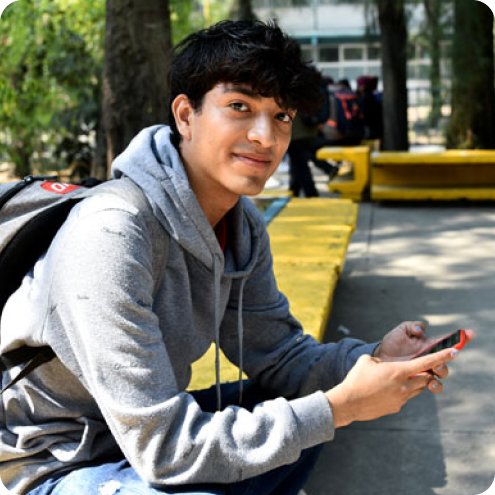
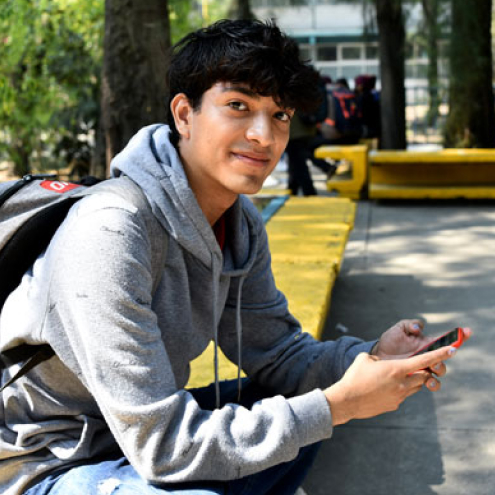
Ajuste a estilos de ingreso

diff --git a/css/style.css b/css/style.css
@@ -670,6 +670,12 @@ h3,
     background: #E2FAFA;
 }
 
+#input-usuario,
+#input-password {
+    font-size: 1rem;
+    padding: 0.8rem 1rem;
+}
+
 .ingreso label {
     color: #828282;
 }
@@ -707,6 +713,31 @@ h3,
     z-index: 0;
     margin-top: -200px;
     margin-left: 100px;
+}
+
+.cuadros-3a,
+.cuadros-3b {
+    position: relative;
+}
+
+.cuadros-3-naranja {
+    position: absolute;
+    height: 50px;
+    width: 50px;
+    background: #F87553;
+    top: -25px;
+    right: -25px;
+    z-index: 9;
+}
+
+.cuadros-3-amarillo {
+    position: absolute;
+    height: 100px;
+    width: 100px;
+    background: #FFC500;
+    bottom: -50px;
+    left: -50px;
+    z-index: 10;
 }
 
 
@@ -892,6 +923,18 @@ hr.linea-footer {
         bottom: 15px;
         right: 27px;
         z-index: 10;
+    }
+
+    .cuadros-3-amarillo {
+        height: 50px;
+        width: 50px;
+        bottom: -25px;
+        left: -25px;
+    }
+
+    .foto-ingreso-2 {
+        margin-top: -150px;
+        margin-left: 100px;
     }
 
     .fotos-acerca-footer::before {
@@ -1101,6 +1144,11 @@ hr.linea-footer {
 
     .foto-ingreso-1,
     .foto-ingreso-2 {
+        display: none;
+    }
+
+    .cuadros-3a,
+    .cuadros-3b {
         display: none;
     }
 }

diff --git a/ingreso.html b/ingreso.html
@@ -104,11 +104,18 @@
         <div class="col-lg-6 d-flex justify-content-center align-items-center">
           <div class="row fotos-ingreso">
             <div class="col-lg-6 g-0">
+              <div class="cuadros-3a">
+                <div class="cuadros-3-naranja"></div>
+              </div>
               <img class="img-fluid foto-ingreso-1" src="img/ingreso-1.jpg">
             </div>
             <div class="col-lg-6 g-0">
+              <div class="cuadros-3b">
+                <div class="cuadros-3-amarillo"></div>
+              </div>
               <img class="img-fluid foto-ingreso-2" src="img/ingreso-2.jpg">
             </div>
+
           </div>
 
         </div>
